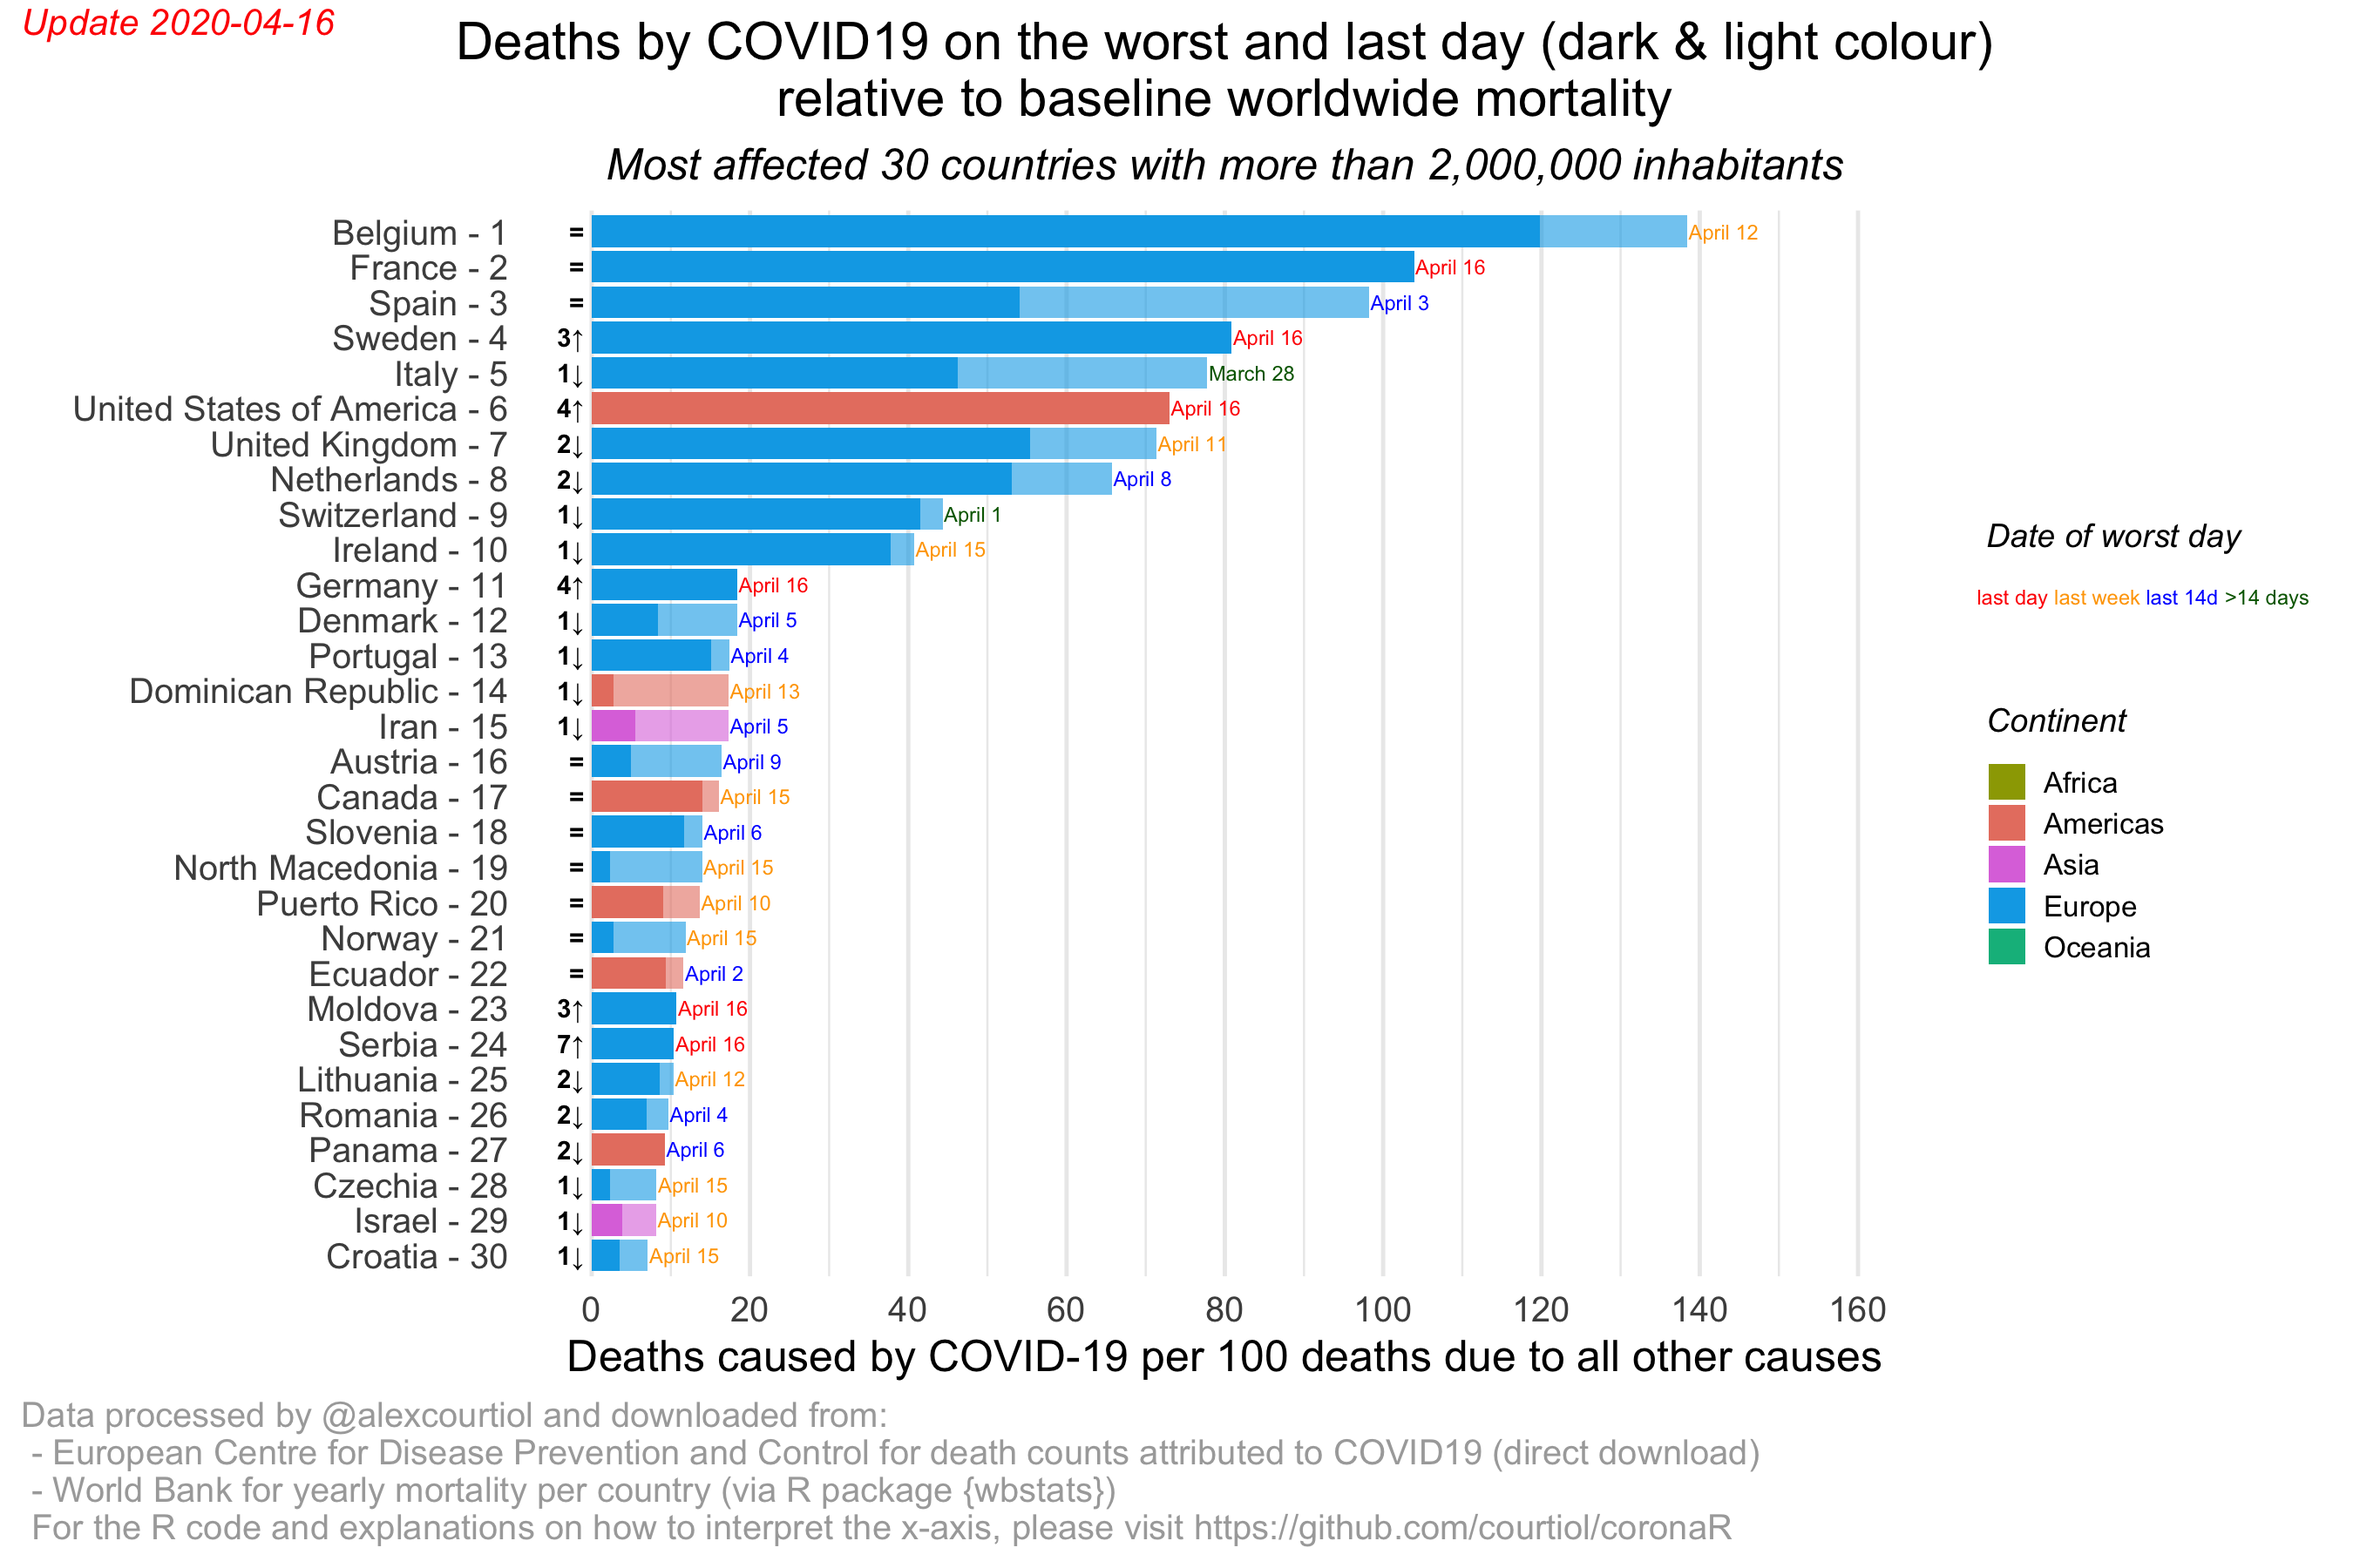
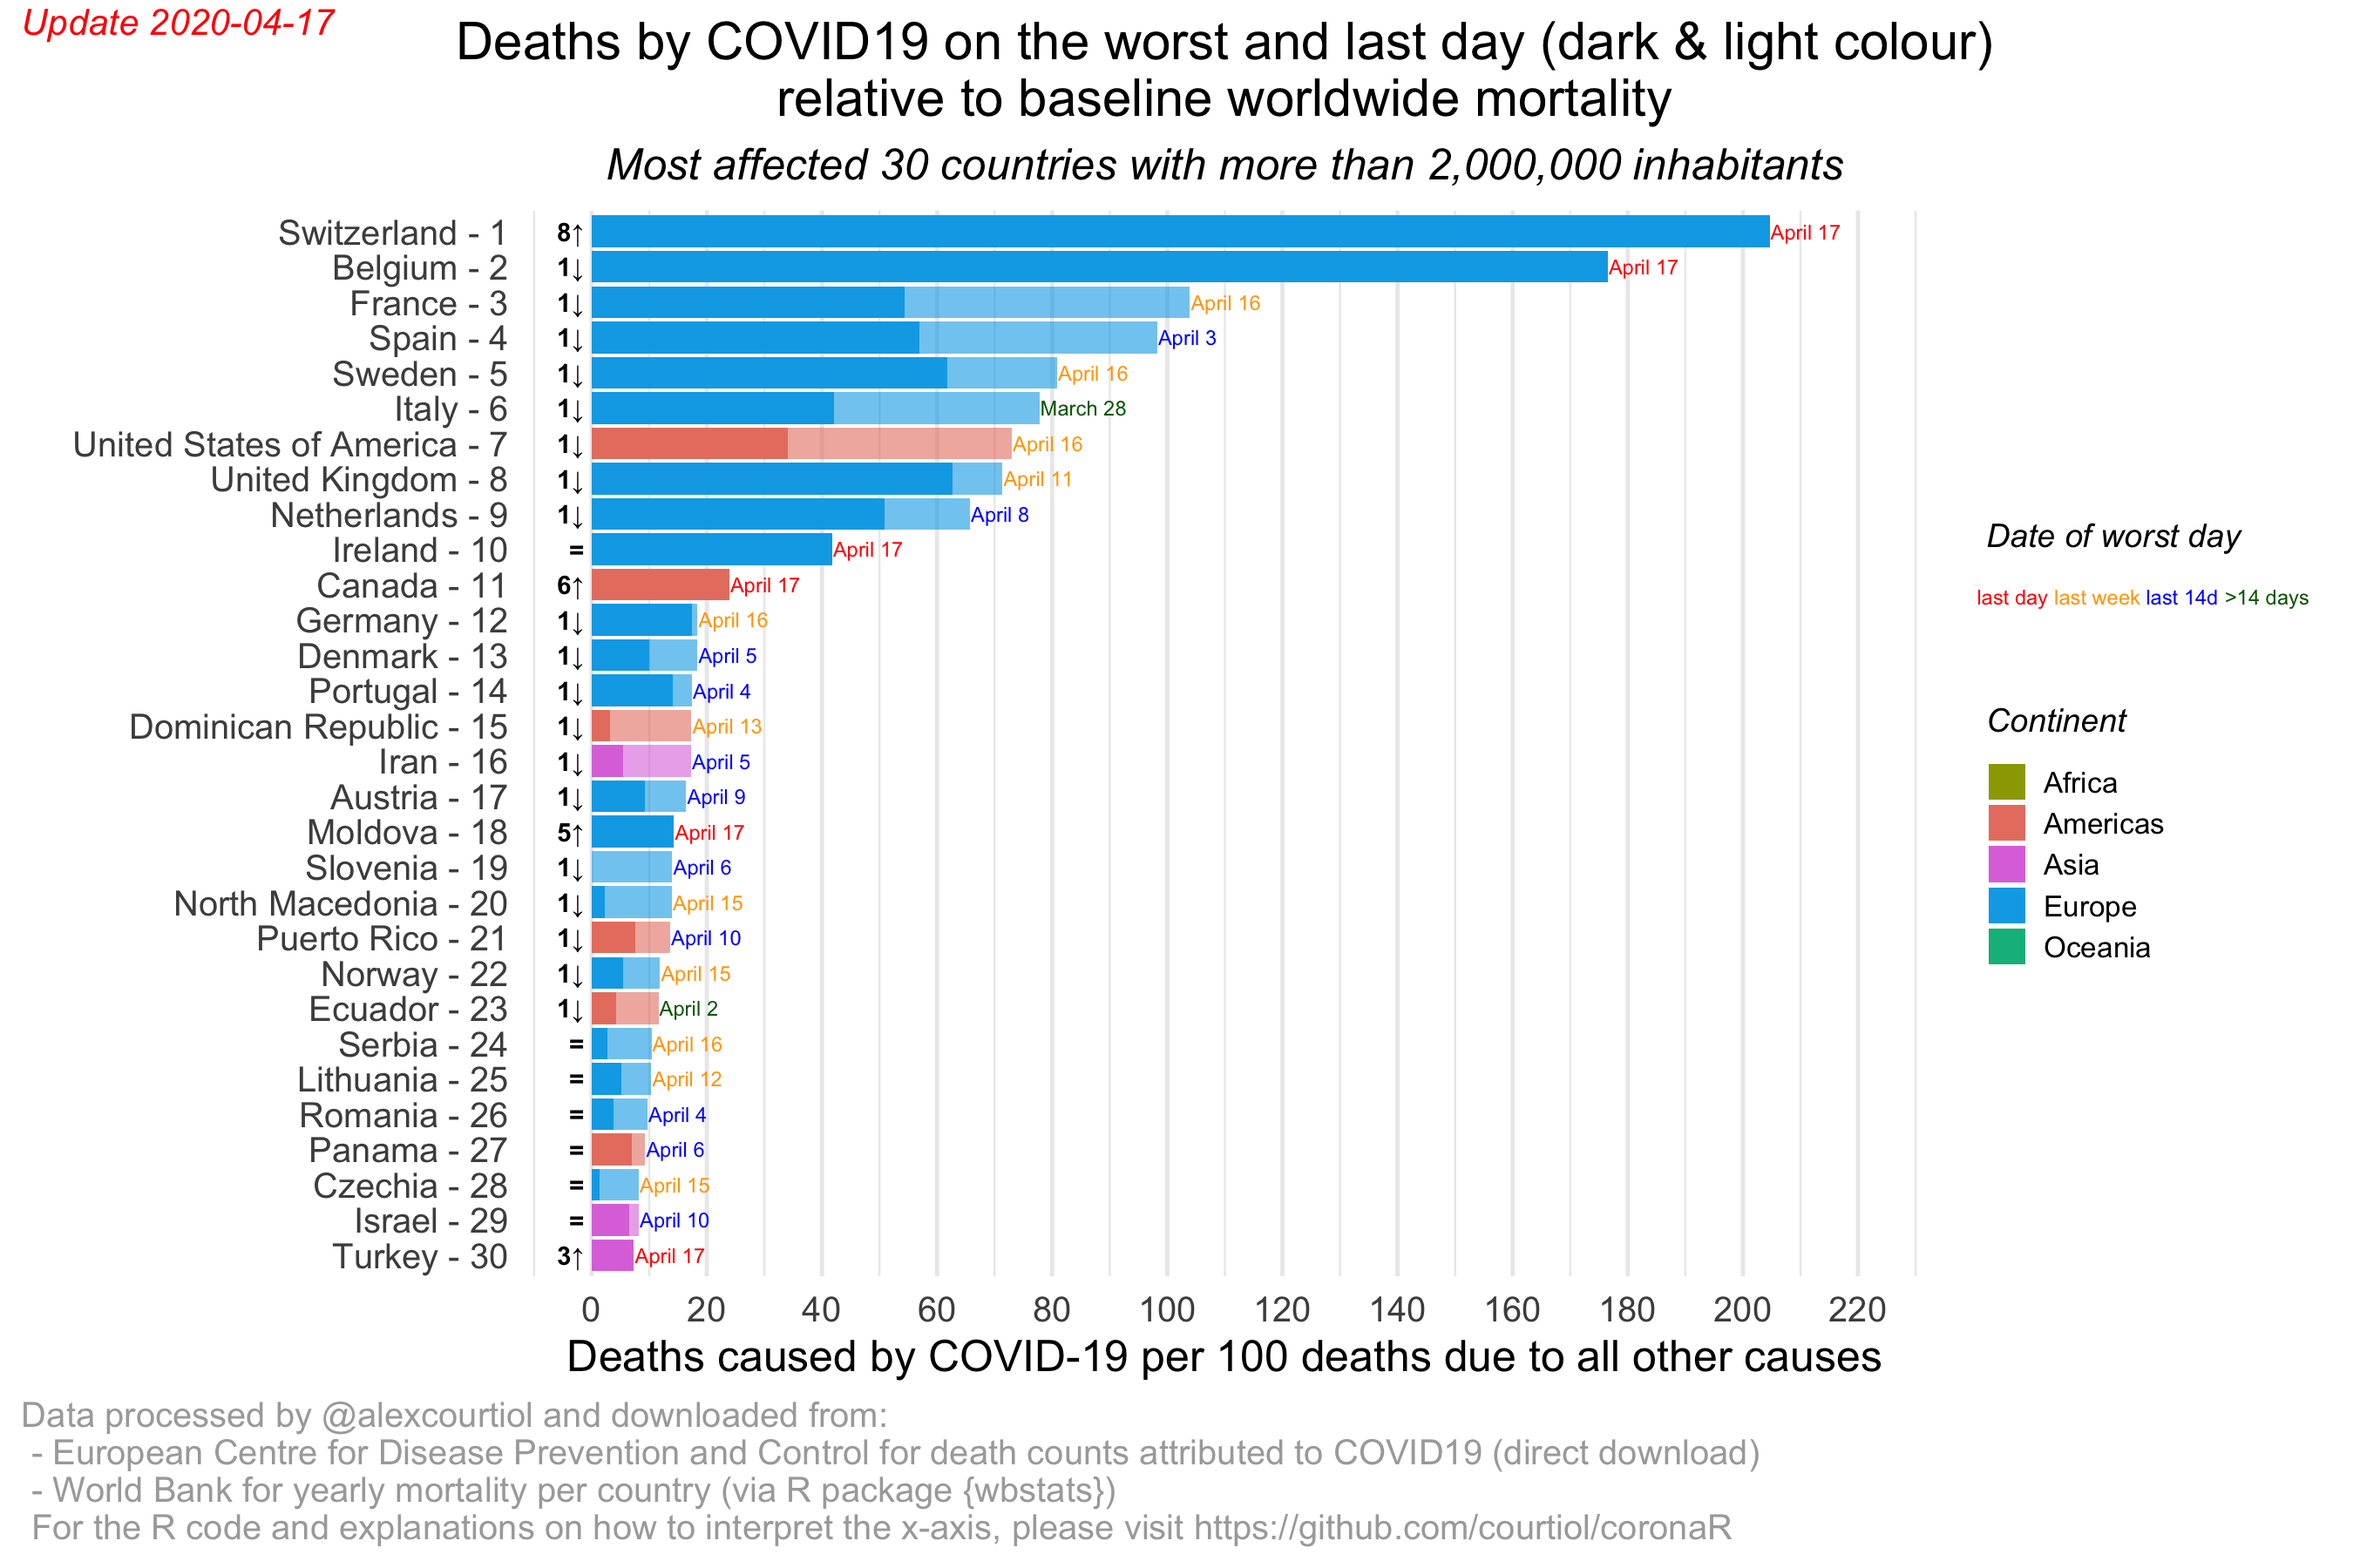
Update 2020/04/17

diff --git a/README.md b/README.md
@@ -95,23 +95,23 @@ library(coronaR)
 today <- Sys.Date() ## note: you can change the date, to rebuild plots retrospectively
 data_COVID <- prepare_data_ECDC(path_save_data = "~/Downloads/COVID19",
                                 date_of_report = today)
-#> The source of the COVID data have been stored in~/Downloads/COVID19/COVID-19-geographic-disbtribution-worldwide-2020-04-16.xlsx!
+#> The source of the COVID data have been stored in~/Downloads/COVID19/COVID-19-geographic-disbtribution-worldwide-2020-04-17.xlsx!
 #> Warning in countrycode::countrycode(.data$iso2c, origin = "iso2c", destination = "continent"): Some values were not matched unambiguously: XK
 data_COVID
-#> # A tibble: 11,152 x 9
+#> # A tibble: 11,358 x 9
 #>    country iso2c continent date_report date_report_last cases deaths_daily
 #>    <chr>   <chr> <fct>     <date>      <date>           <dbl>        <dbl>
-#>  1 Afghan… AF    Asia      2019-12-31  2020-04-16           0            0
-#>  2 Afghan… AF    Asia      2020-01-01  2020-04-16           0            0
-#>  3 Afghan… AF    Asia      2020-01-02  2020-04-16           0            0
-#>  4 Afghan… AF    Asia      2020-01-03  2020-04-16           0            0
-#>  5 Afghan… AF    Asia      2020-01-04  2020-04-16           0            0
-#>  6 Afghan… AF    Asia      2020-01-05  2020-04-16           0            0
-#>  7 Afghan… AF    Asia      2020-01-06  2020-04-16           0            0
-#>  8 Afghan… AF    Asia      2020-01-07  2020-04-16           0            0
-#>  9 Afghan… AF    Asia      2020-01-08  2020-04-16           0            0
-#> 10 Afghan… AF    Asia      2020-01-09  2020-04-16           0            0
-#> # … with 11,142 more rows, and 2 more variables: deaths_cumul <dbl>,
+#>  1 Afghan… AF    Asia      2019-12-31  2020-04-17           0            0
+#>  2 Afghan… AF    Asia      2020-01-01  2020-04-17           0            0
+#>  3 Afghan… AF    Asia      2020-01-02  2020-04-17           0            0
+#>  4 Afghan… AF    Asia      2020-01-03  2020-04-17           0            0
+#>  5 Afghan… AF    Asia      2020-01-04  2020-04-17           0            0
+#>  6 Afghan… AF    Asia      2020-01-05  2020-04-17           0            0
+#>  7 Afghan… AF    Asia      2020-01-06  2020-04-17           0            0
+#>  8 Afghan… AF    Asia      2020-01-07  2020-04-17           0            0
+#>  9 Afghan… AF    Asia      2020-01-08  2020-04-17           0            0
+#> 10 Afghan… AF    Asia      2020-01-09  2020-04-17           0            0
+#> # … with 11,348 more rows, and 2 more variables: deaths_cumul <dbl>,
 #> #   date_first_10_cumul_deaths <date>
   
 ## NOTE: the following Warning is expected:
@@ -239,32 +239,32 @@ full_data <- merge_datasets(data_ECDC = data_COVID,
 
 ``` r
 str(full_data)
-#> tibble [8,803 × 24] (S3: tbl_df/tbl/data.frame)
-#>  $ country                         : chr [1:8803] "Afghanistan" "Afghanistan" "Afghanistan" "Afghanistan" ...
+#> tibble [8,946 × 24] (S3: tbl_df/tbl/data.frame)
+#>  $ country                         : chr [1:8946] "Afghanistan" "Afghanistan" "Afghanistan" "Afghanistan" ...
 #>  $ continent                       : Factor w/ 5 levels "Africa","Americas",..: 3 3 3 3 3 3 3 3 3 3 ...
-#>  $ date_report                     : Date[1:8803], format: "2020-04-16" "2020-04-15" ...
-#>  $ date_report_last                : Date[1:8803], format: "2020-04-16" "2020-04-16" ...
-#>  $ cases                           : num [1:8803] 70 49 58 52 34 37 61 56 30 38 ...
-#>  $ deaths_daily                    : num [1:8803] 2 2 3 0 3 0 1 3 4 0 ...
-#>  $ deaths_cumul                    : num [1:8803] 25 23 21 18 18 15 15 14 11 7 ...
-#>  $ date_first_10_cumul_deaths      : Date[1:8803], format: "2020-04-08" "2020-04-08" ...
-#>  $ year_mortality                  : num [1:8803] 2018 2018 2018 2018 2018 ...
-#>  $ total_death_year                : num [1:8803] 238758 238758 238758 238758 238758 ...
-#>  $ total_death_day                 : num [1:8803] 654 654 654 654 654 ...
-#>  $ total_death_year_world          : num [1:8803] 56650926 56650926 56650926 56650926 56650926 ...
-#>  $ total_death_day_world           : num [1:8803] 155208 155208 155208 155208 155208 ...
-#>  $ country_pop                     : num [1:8803] 37172386 37172386 37172386 37172386 37172386 ...
-#>  $ world_pop                       : num [1:8803] 7.51e+09 7.51e+09 7.51e+09 7.51e+09 7.51e+09 ...
-#>  $ days_since_first_10_cumul_deaths: 'difftime' num [1:8803] 8 7 6 5 ...
+#>  $ date_report                     : Date[1:8946], format: "2020-04-17" "2020-04-16" ...
+#>  $ date_report_last                : Date[1:8946], format: "2020-04-17" "2020-04-17" ...
+#>  $ cases                           : num [1:8946] 10 70 49 58 52 34 37 61 56 30 ...
+#>  $ deaths_daily                    : num [1:8946] 4 2 2 3 0 3 0 1 3 4 ...
+#>  $ deaths_cumul                    : num [1:8946] 29 25 23 21 18 18 15 15 14 11 ...
+#>  $ date_first_10_cumul_deaths      : Date[1:8946], format: "2020-04-08" "2020-04-08" ...
+#>  $ year_mortality                  : num [1:8946] 2018 2018 2018 2018 2018 ...
+#>  $ total_death_year                : num [1:8946] 238758 238758 238758 238758 238758 ...
+#>  $ total_death_day                 : num [1:8946] 654 654 654 654 654 ...
+#>  $ total_death_year_world          : num [1:8946] 56650926 56650926 56650926 56650926 56650926 ...
+#>  $ total_death_day_world           : num [1:8946] 155208 155208 155208 155208 155208 ...
+#>  $ country_pop                     : num [1:8946] 37172386 37172386 37172386 37172386 37172386 ...
+#>  $ world_pop                       : num [1:8946] 7.51e+09 7.51e+09 7.51e+09 7.51e+09 7.51e+09 ...
+#>  $ days_since_first_10_cumul_deaths: 'difftime' num [1:8946] 9 8 7 6 ...
 #>   ..- attr(*, "units")= chr "days"
-#>  $ extra_mortality_daily_country   : num [1:8803] 0.306 0.306 0.459 0 0.459 ...
-#>  $ extra_mortality_cumul_country   : num [1:8803] 0.272 0.268 0.262 0.229 0.275 ...
-#>  $ country_weight                  : num [1:8803] 0.00495 0.00495 0.00495 0.00495 0.00495 ...
-#>  $ extra_mortality_daily_world     : num [1:8803] 0.26 0.26 0.391 0 0.391 ...
-#>  $ extra_mortality_cumul_world     : num [1:8803] 0.231 0.228 0.223 0.195 0.234 ...
-#>  $ extra_mortality                 : num [1:8803] 0.611 0.611 0.611 0.611 0.611 ...
-#>  $ date                            : Date[1:8803], format: "2020-04-08" "2020-04-08" ...
-#>  $ days_since_date                 : 'difftime' num [1:8803] 8 8 8 8 ...
+#>  $ extra_mortality_daily_country   : num [1:8946] 0.611 0.306 0.306 0.459 0 ...
+#>  $ extra_mortality_cumul_country   : num [1:8946] 0.306 0.272 0.268 0.262 0.229 ...
+#>  $ country_weight                  : num [1:8946] 0.00495 0.00495 0.00495 0.00495 0.00495 ...
+#>  $ extra_mortality_daily_world     : num [1:8946] 0.521 0.26 0.26 0.391 0 ...
+#>  $ extra_mortality_cumul_world     : num [1:8946] 0.26 0.231 0.228 0.223 0.195 ...
+#>  $ extra_mortality                 : num [1:8946] 0.611 0.611 0.611 0.611 0.611 ...
+#>  $ date                            : Date[1:8946], format: "2020-04-08" "2020-04-08" ...
+#>  $ days_since_date                 : 'difftime' num [1:8946] 9 9 9 9 ...
 #>   ..- attr(*, "units")= chr "days"
 ```
 
@@ -344,7 +344,7 @@ devtools::session_info()
 #>  collate  en_US.UTF-8                 
 #>  ctype    en_US.UTF-8                 
 #>  tz       Europe/Berlin               
-#>  date     2020-04-16                  
+#>  date     2020-04-17                  
 #> 
 #> ─ Packages ───────────────────────────────────────────────────────────────────
 #>  package     * version     date       lib source                            
